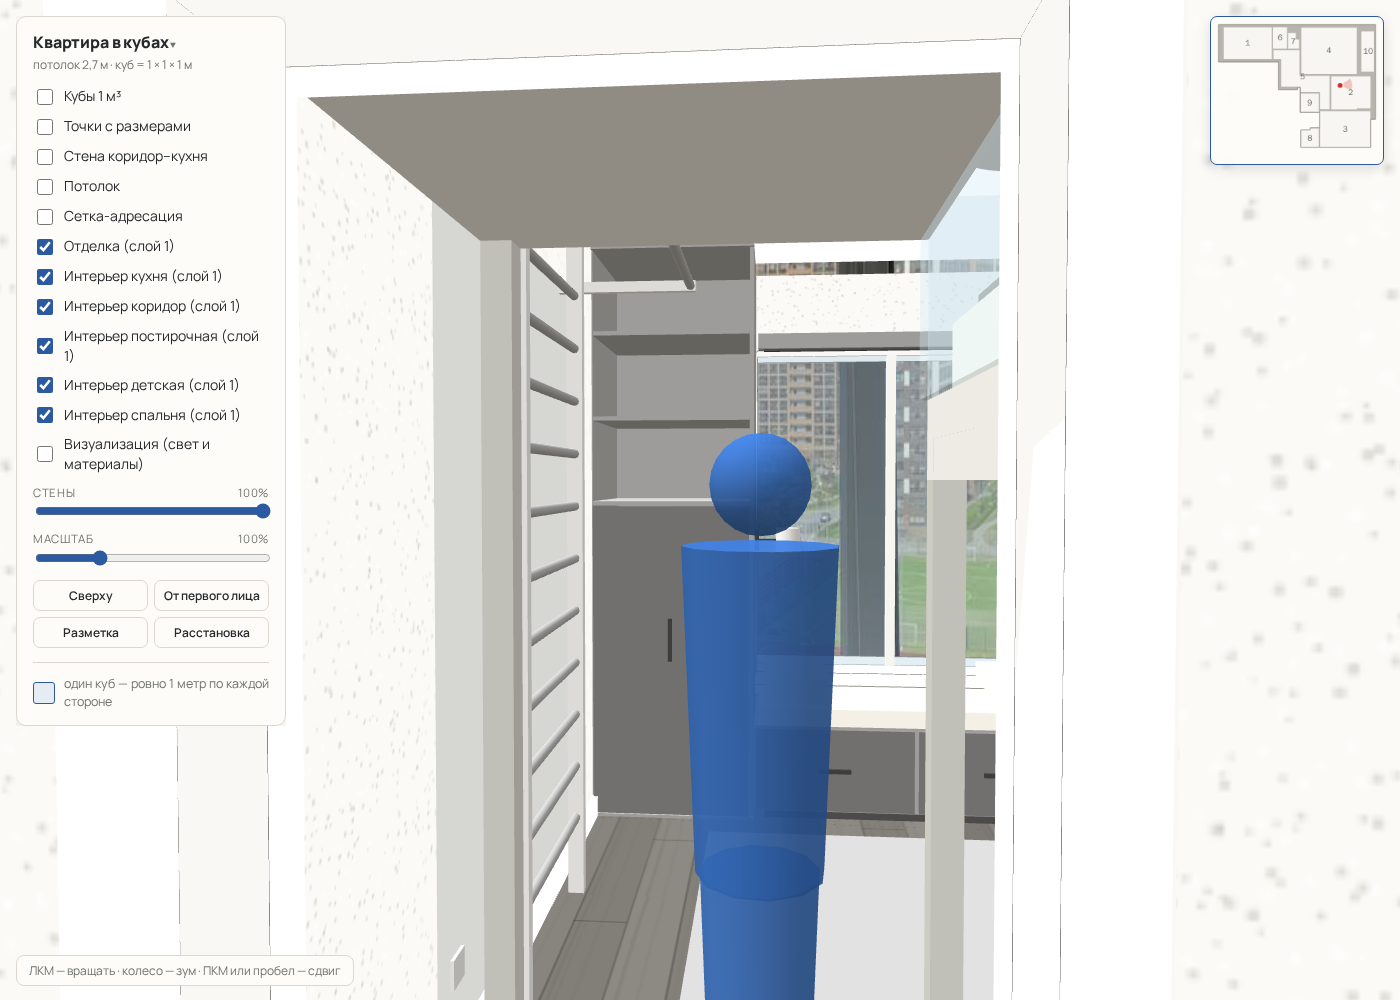
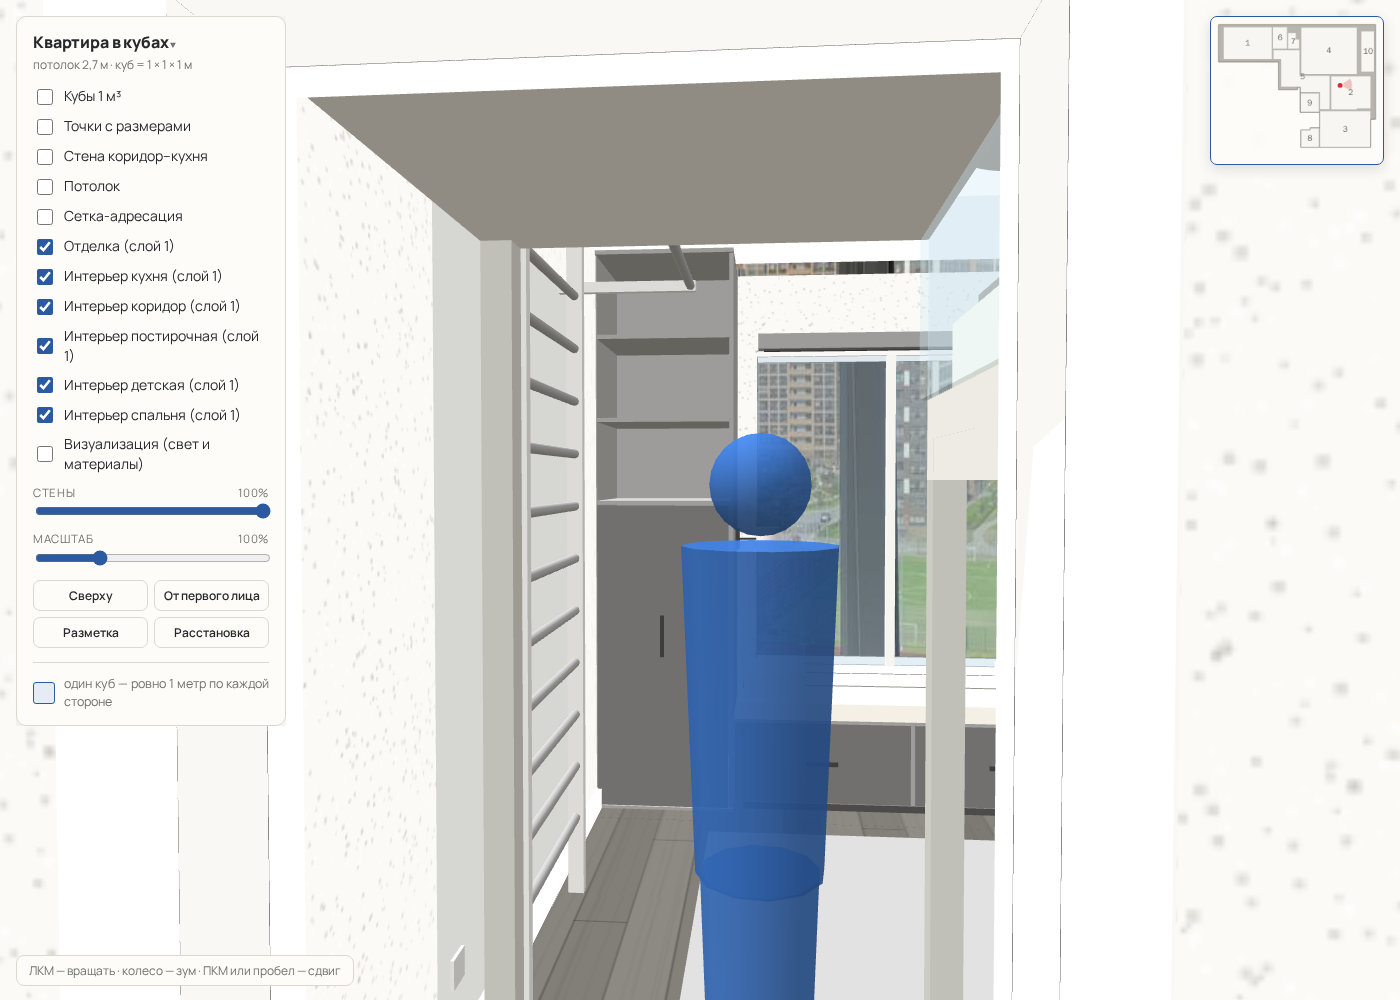
Комната 2: блок у окна глубиной 0.60, башни уже на 0.10 и вне проёма окна, лежанка 1.70

diff --git a/items.js b/items.js
@@ -192,22 +192,22 @@ const PHYS={}; // id → boxes
        b(0.03,0.52,0,0.03,0.26,0.29,mat.knob); b(0.26,0.29,0,0.03,0.03,0.52,mat.knob); }},
     {id:'deskshelf2',type:'полка над столом под платформой',room:2,layer:'kid',pos:[11.087,7.90],rot:0,size:[0.22,1.28,1.55],fixed:'wall',
      build(b){ b(0,0.22,1.25,1.28,0,1.55,mat.body); [0.05,1.48].forEach(z=>b(0,0.02,1.13,1.25,z,z+0.02,mat.body)); }},
-    {id:'tower2n',type:'стеллаж-башня северная: низ шкаф со штангой, верх открытые ячейки',room:2,layer:'kid',pos:[14.074,6.518],rot:0,size:[0.70,2.70,0.78],fixed:'wall',
-     build(b){ const t=0.02, D=0.78;
-       b(0,0.7,0,t,0,D,mat.body); b(0,0.7,2.7-t,2.7,0,D,mat.body); b(0.68,0.7,t,2.7-t,0,D,mat.body); b(0.02,0.68,t,2.7-t,0,t,mat.body); b(0.02,0.68,t,2.7-t,D-t,D,mat.body); // box, back at the east wall
-       [1.50,1.90,2.30].forEach(y=>b(t,0.68,y-t,y,t,D-t,mat.body));                                  // shelves: closed 0–1.5, 3 open rows above
+    {id:'tower2n',type:'стеллаж-башня северная: низ шкаф со штангой, верх открытые ячейки',room:2,layer:'kid',pos:[14.174,6.518],rot:0,size:[0.60,2.70,0.68],fixed:'wall',
+     build(b){ const t=0.02, D=0.68;
+       b(0,0.6,0,t,0,D,mat.body); b(0,0.6,2.7-t,2.7,0,D,mat.body); b(0.58,0.6,t,2.7-t,0,D,mat.body); b(0.02,0.58,t,2.7-t,0,t,mat.body); b(0.02,0.58,t,2.7-t,D-t,D,mat.body); // box, back at the east wall
+       [1.50,1.90,2.30].forEach(y=>b(t,0.58,y-t,y,t,D-t,mat.body));                                  // shelves: closed 0–1.5, 3 open rows above
        b(0,t,t+0.003,1.50-t-0.003,t+0.003,D-t-0.003,mat.wdoor); b(-0.015,0,0.75,0.95,D/2-0.01,D/2+0.01,mat.handle); // wardrobe door on the west face
      }},
-    {id:'tower2s',type:'стеллаж-башня южная: 2 ящика, открытые ячейки',room:2,layer:'kid',pos:[14.074,8.80],rot:0,size:[0.70,2.70,0.719],fixed:'wall',
-     build(b){ const t=0.02, D=0.719;
-       b(0,0.7,0,t,0,D,mat.body); b(0,0.7,2.7-t,2.7,0,D,mat.body); b(0.68,0.7,t,2.7-t,0,D,mat.body); b(0.02,0.68,t,2.7-t,0,t,mat.body); b(0.02,0.68,t,2.7-t,D-t,D,mat.body);
-       [0.90,1.35,1.80,2.25].forEach(y=>b(t,0.68,y-t,y,t,D-t,mat.body));                              // 4 open rows above the drawers
+    {id:'tower2s',type:'стеллаж-башня южная: 2 ящика, открытые ячейки',room:2,layer:'kid',pos:[14.174,8.90],rot:0,size:[0.60,2.70,0.619],fixed:'wall',
+     build(b){ const t=0.02, D=0.619;
+       b(0,0.6,0,t,0,D,mat.body); b(0,0.6,2.7-t,2.7,0,D,mat.body); b(0.58,0.6,t,2.7-t,0,D,mat.body); b(0.02,0.58,t,2.7-t,0,t,mat.body); b(0.02,0.58,t,2.7-t,D-t,D,mat.body);
+       [0.90,1.35,1.80,2.25].forEach(y=>b(t,0.58,y-t,y,t,D-t,mat.body));                              // 4 open rows above the drawers
        [0.03,0.46].forEach(y=>{ b(0,t,y,y+0.41,t+0.003,D-t-0.003,mat.wdoor); b(-0.015,0,y+0.2,y+0.22,D/2-0.075,D/2+0.075,mat.handle); }); // drawer fronts west
      }},
-    {id:'windowseat2',type:'лежанка у окна с 2 глубокими ящиками и матрасиком',room:2,layer:'kid',pos:[14.074,7.30],rot:0,size:[0.70,0.65,1.50],fixed:'wall',
-     build(b){ b(0.05,0.68,0,0.05,0.05,1.45,mat.dark); b(0.02,0.70,0.05,0.45,0,1.50,mat.body);
-       [0.01,0.76].forEach(z=>{ b(0,0.02,0.06,0.44,z,z+0.73,mat.wdoor); b(-0.015,0,0.24,0.26,z+0.29,z+0.44,mat.handle); }); // deep drawers, fronts west
-       b(0.02,0.70,0.45,0.53,0.02,1.48,mat.kmat); [0.05,1.15].forEach(z=>b(0.10,0.60,0.53,0.65,z,z+0.30,mat.pillow)); }},   // mattress and two pillows at the towers
+    {id:'windowseat2',type:'лежанка у окна с 2 глубокими ящиками и матрасиком, 1.70 × 0.60',room:2,layer:'kid',pos:[14.174,7.198],rot:0,size:[0.60,0.65,1.702],fixed:'wall',
+     build(b){ b(0.05,0.58,0,0.05,0.05,1.65,mat.dark); b(0.02,0.60,0.05,0.45,0,1.702,mat.body);
+       [0.01,0.862].forEach(z=>{ b(0,0.02,0.06,0.44,z,z+0.83,mat.wdoor); b(-0.015,0,0.24,0.26,z+0.34,z+0.49,mat.handle); }); // deep drawers, fronts west
+       b(0.02,0.60,0.45,0.53,0.02,1.682,mat.kmat); [0.05,1.35].forEach(z=>b(0.10,0.50,0.53,0.65,z,z+0.30,mat.pillow)); }},   // mattress and two pillows at the towers
     {id:'gymwall',type:'шведская стенка 0.80, в распор пол–потолок, 12 перекладин',room:2,layer:'kid',pos:[12.55,6.538],rot:0,size:[0.80,2.70,0.15],fixed:'wall',
      build(b,g){ b(0,0.04,0,2.7,0.06,0.12,mat.lamp); b(0.76,0.80,0,2.7,0.06,0.12,mat.lamp);
        for(let y=0.30;y<=2.50+1e-6;y+=0.20){ const r=new THREE.Mesh(new THREE.CylinderGeometry(0.0175,0.0175,0.76,12),mat.body); r.rotation.z=Math.PI/2; r.position.set(0.40,y,0.09); g.add(r); } }},
@@ -221,7 +221,7 @@ const PHYS={}; // id → boxes
     {id:'desklamp2',type:'настольная лампа, гибкая штанга',room:2,layer:'kid',pos:[11.45,9.20],rot:0,size:[0.20,1.20,0.20],
      build(b,g){ b(0.07,0.13,0.72,0.77,0.07,0.13,mat.knob); const a=new THREE.Mesh(new THREE.CylinderGeometry(0.012,0.012,0.36,8),mat.knob); a.position.set(0.10,0.95,0.10); g.add(a);
        const s=new THREE.Mesh(new THREE.ConeGeometry(0.08,0.10,16,1,true),mat.lamp); s.position.set(0.10,1.15,0.10); g.add(s); }},
-    {id:'bra3',type:'бра над лежанкой на торце северной башни, поворотное',room:2,layer:'kid',pos:[14.32,7.298],rot:0,size:[0.16,1.40,0.245],fixed:'wall',
+    {id:'bra3',type:'бра над лежанкой на торце северной башни, поворотное',room:2,layer:'kid',pos:[14.394,7.198],rot:0,size:[0.16,1.40,0.245],fixed:'wall',
      build(b,g){ b(0.03,0.13,1.25,1.35,0,0.02,mat.handle); b(0.075,0.085,1.295,1.305,0.02,0.13,mat.handle); const s=new THREE.Mesh(new THREE.CylinderGeometry(0.06,0.06,0.12,16),mat.lamp); s.position.set(0.08,1.30,0.165); g.add(s); }},
     {id:'bra4',type:'бра для чтения над изголовьем, плоское',room:2,layer:'kid',pos:[11.59,9.349],rot:0,size:[0.16,2.36,0.245],fixed:'wall',
      build(b){ b(0.03,0.13,2.24,2.36,0.235,0.245,mat.knob); b(0.02,0.14,2.27,2.33,0.08,0.235,mat.lamp); }},

diff --git a/tasks/room2-kid/README.md b/tasks/room2-kid/README.md
@@ -263,6 +263,11 @@ issue: —
 
 Скриншоты: `room2-top.png`, `room2-door.png`, `room2-desk.png`, `room2-gym.png` в этой папке.
 
+## Правка пользователя 2026-09-06
+
+Блок у окна мельче на 0.10: глубина 0.60 (x 14.174–14.774). Башни уже на 0.10: северная 0.68 (z 6.518–7.198), южная 0.62
+(z 8.90–9.519) — обе вне проёма окна (7.30–8.80). Лежанка между ними 1.70 × 0.60.
+
 ## Замечания и риски
 
 - **Стол под чердаком** — по просьбе пользователя. Минусы: высота над столом 1.70 (взрослому рядом с ребёнком
